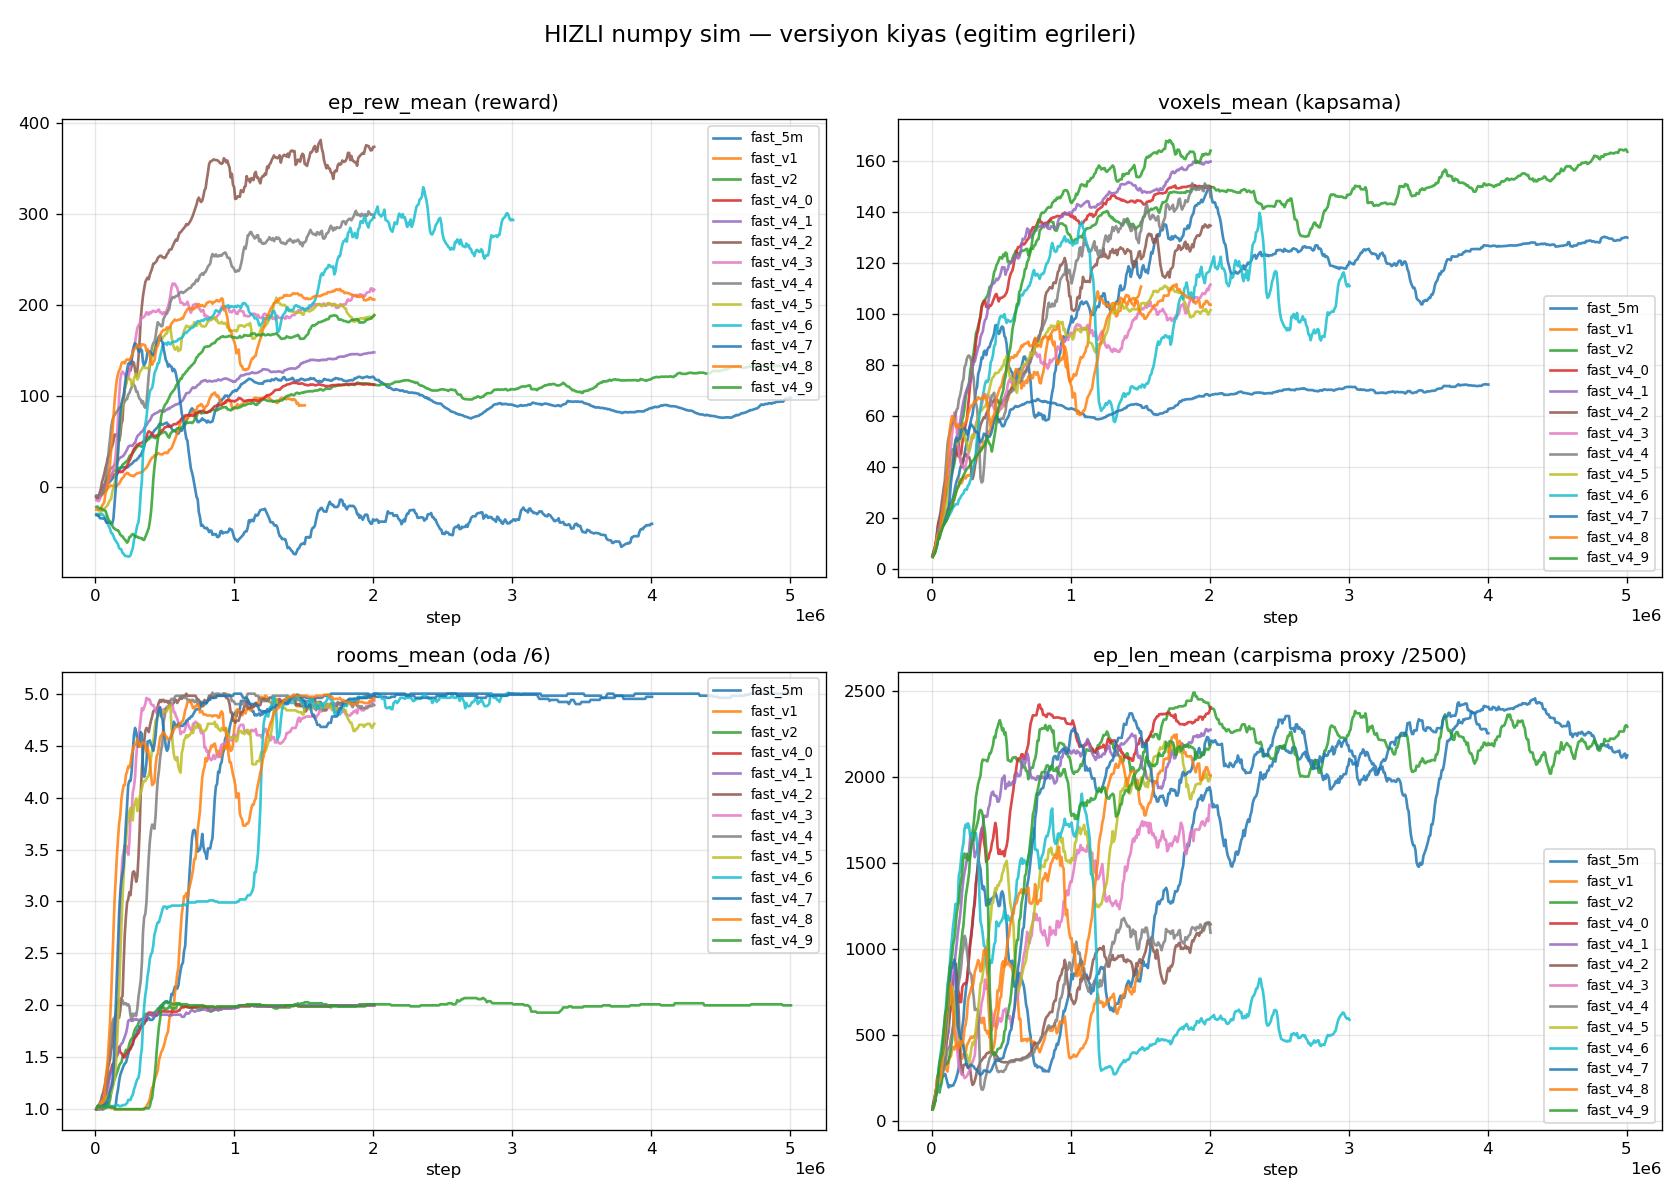
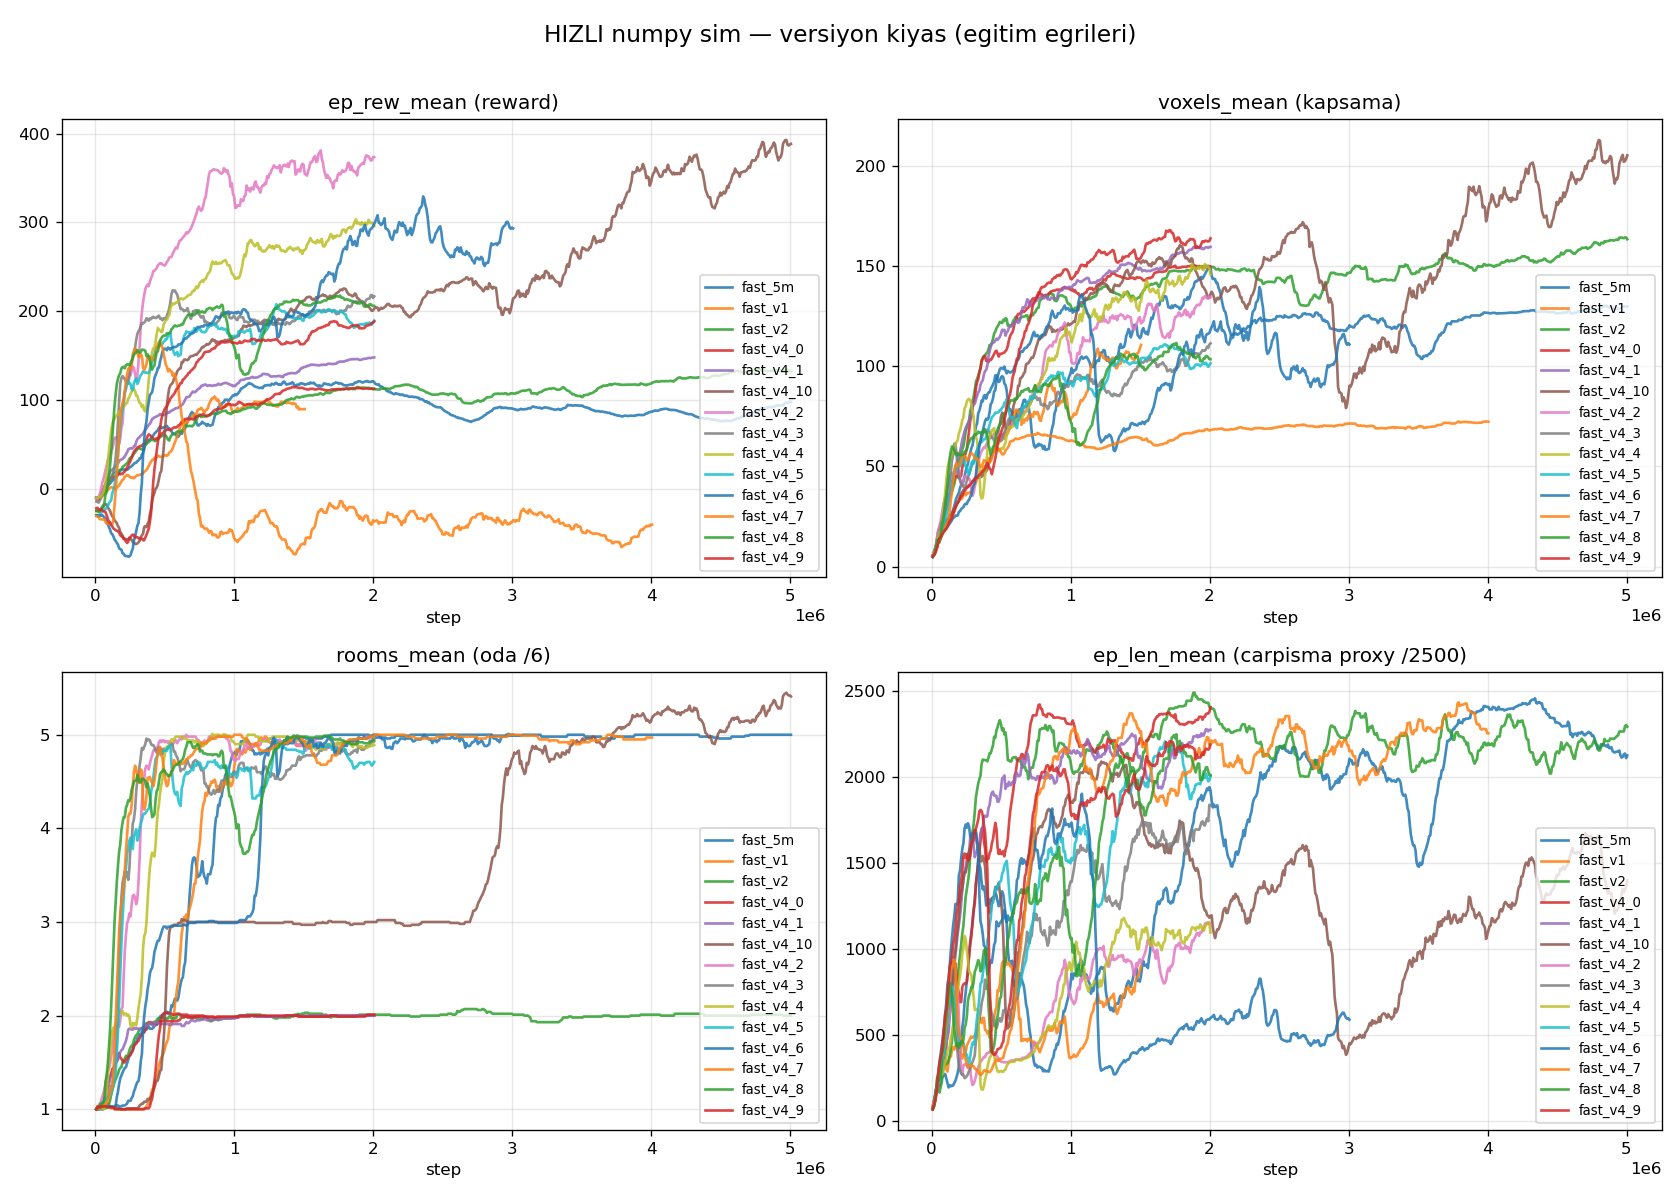
v4.10 eval (5M: voxel 117->281/6 oda/%44.5 kapsama AMA %54 carpisma; egitim suresi=trade-off) + ckpt sweep -> v4.11 (5M+collision50)

diff --git a/docs/FAST_V4_COMPARISON.md b/docs/FAST_V4_COMPARISON.md
@@ -18,6 +18,7 @@ Hedef: **çarpışmadan MAKSİMUM voxel tara.**
 | v4.7 | v4.5 + idle↑ (0.08/grace20) + 4M | %72 ❌ | 72 | 79 | 5.0 | %9.4 | %85 (idle backfire) |
 | **v4.8** | **far 1.0 + collision 25** | **%0** ✅✅ | 117 | 123 | **5.0** | %13.8 | **%100** |
 | v4.9 | far 1.0 + collision 22 | %37 ❌ | 119 | 138 | 2.0 (çöktü) | %18.2 | %89 |
+| v4.10 | v4.8 ayarı + **5M eğitim** | %54 | **281** | **328** | **5.76 (max 6!)** | **%44.5** | %95 |
 
 ## Ana Bulgular (rapor için)
 
@@ -35,6 +36,8 @@ Hedef: **çarpışmadan MAKSİMUM voxel tara.**
 5. **Ödül-şekillendirme yakınsamayı kırabilir.** v4.3 (agresif çoklu değişiklik) %100 çarpışma + voxel çöküşü → PPO kötü local optimum. Tek-değişken, kademeli ilerleme daha güvenli.
 
 6. **Yumuşak idle cezası güvenlik için kritik.** v4.7'de idle_penalty 0.06→0.08 + grace 30→20 ile ajanı sürekli harekete zorlamak GERİ TEPTİ: engel yanında yavaşlayıp/duramadığından çarpışma %8→%72, voxel 114→71. v4.5'in düşük idle'ı ajanın güvenli durup-bekleme manevrasına izin veriyor.
+
+7. **EĞİTİM SÜRESİ kendisi bir trade-off kaldıracı.** Aynı ödül (collision 25), 2M→5M: voxel 117→281 (2.4x!), union kapsama %13.8→%44.5, oda 5.0→5.76 (TÜM 6 ODA) — AMA çarpışma %0→%54. Daha uzun eğitim politikayı keşif-sömürüsüne (exploit) itiyor: per-voxel ödül birikimi çarpışma cezasını yine eziyor. Checkpoint sweep (2.6M %43, 3.2M %100, 4.4M %72): 2M'den sonra güvenlik anında bozuluyor, "hem kapsamlı hem güvenli" tek bir ara nokta YOK. Çözüm yolu: 5M kapsamlılığı + ÖLÇEKLENMİŞ çarpışma cezası (v4.11+).
 
 ## EN İYİ POLİTİKA → **v4.8** (SIFIR çarpışma)
 

diff --git a/docs/EVAL_fast_v4_10.md b/docs/EVAL_fast_v4_10.md
@@ -1,0 +1,16 @@
+# fast_v4_10 (numpy/Gymnasium sim) — 100 episode
+
+Model: `fast_drone_final.zip` | deterministic | hareketli engeller aktif | ~100x hizli sim
+
+| Metrik | Deger |
+|---|---|
+| Return | 234.8 ± 42.7 (min 119, max 288) |
+| Voxel / 1024 | 281.1 ± 33.2 (min 203, max 328) |
+| Oda / 6 | 5.8 ± 0.4 (min 5, max 6) |
+| Episode / 2500 | 2377.7 ± 216.0 (min 1468, max 2500) |
+| Carpisma orani | 54% (54/100) |
+| Birlesik kapsama | 456/1024 (45%) |
+
+![coverage](figures/eval_fast_v4_10_coverage.png)
+
+![traj](figures/eval_fast_v4_10_trajectories.png)
